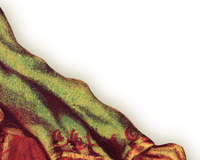
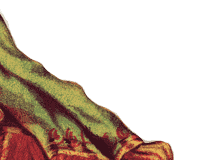
Traviata images optimized

diff --git a/index.html b/index.html
@@ -518,8 +518,8 @@
 			<img class="px-traviata_img" id="px-traviata-rightcurtain" src="i/px-traviata_rightcurtain.png" />
 
 			<img class="px-traviata_img" id="px-traviata-musician" src="i/px-traviata_musician.png" />
-			<!--img class="px-traviata_img" id="px-traviata-horns" src="i/px-traviata_horns.png" /-->
-			<img class="px-traviata_img" id="px-traviata-middle" src="i/px-traviata_middle.png" />
+			<img class="px-traviata_img" id="px-traviata-middleleft" src="i/px-traviata_middleleft.png" />
+			<img class="px-traviata_img" id="px-traviata-middleright" src="i/px-traviata_middleright.png" />
 
 			<img class="px-traviata_img" id="px-traviata-leftcurtain2" src="i/px-traviata_leftcurtain2.png" />
 			<img class="px-traviata_img" id="px-traviata-rightcurtain2" src="i/px-traviata_rightcurtain2.png" />

diff --git a/css/style.css b/css/style.css
@@ -1443,11 +1443,17 @@ footer#festival_info div#go-to-top a:hover{color:#e3e2da;}
 		left: 50%;
 		bottom:-40px;
 	}
-	div.px-container img#px-traviata-middle{
-		height: 360px;
+
+	div.px-container img#px-traviata-middleleft{
+		height: 380px;
 		position: absolute;
-		margin: auto;
-		left:0;right:0;
+		right:58%;
+		bottom:0px;
+	}
+	div.px-container img#px-traviata-middleright{
+		height: 380px;
+		position: absolute;
+		left:63%;
 		bottom:0px;
 	}
 
